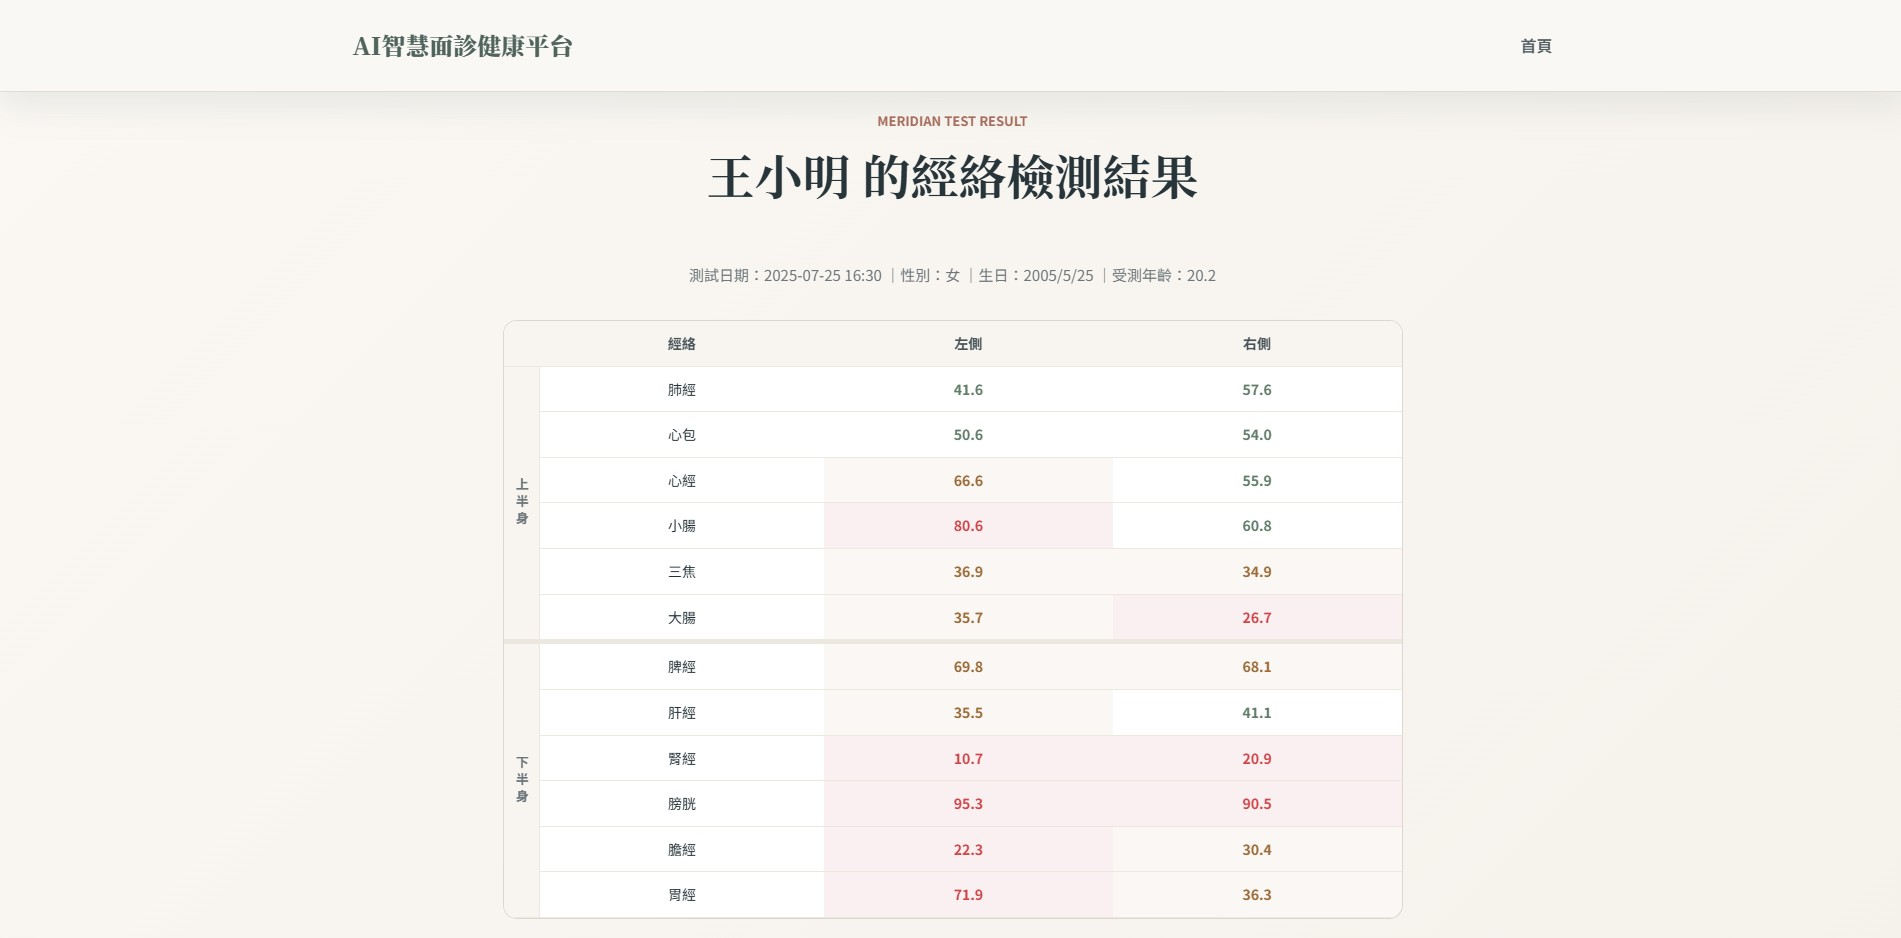
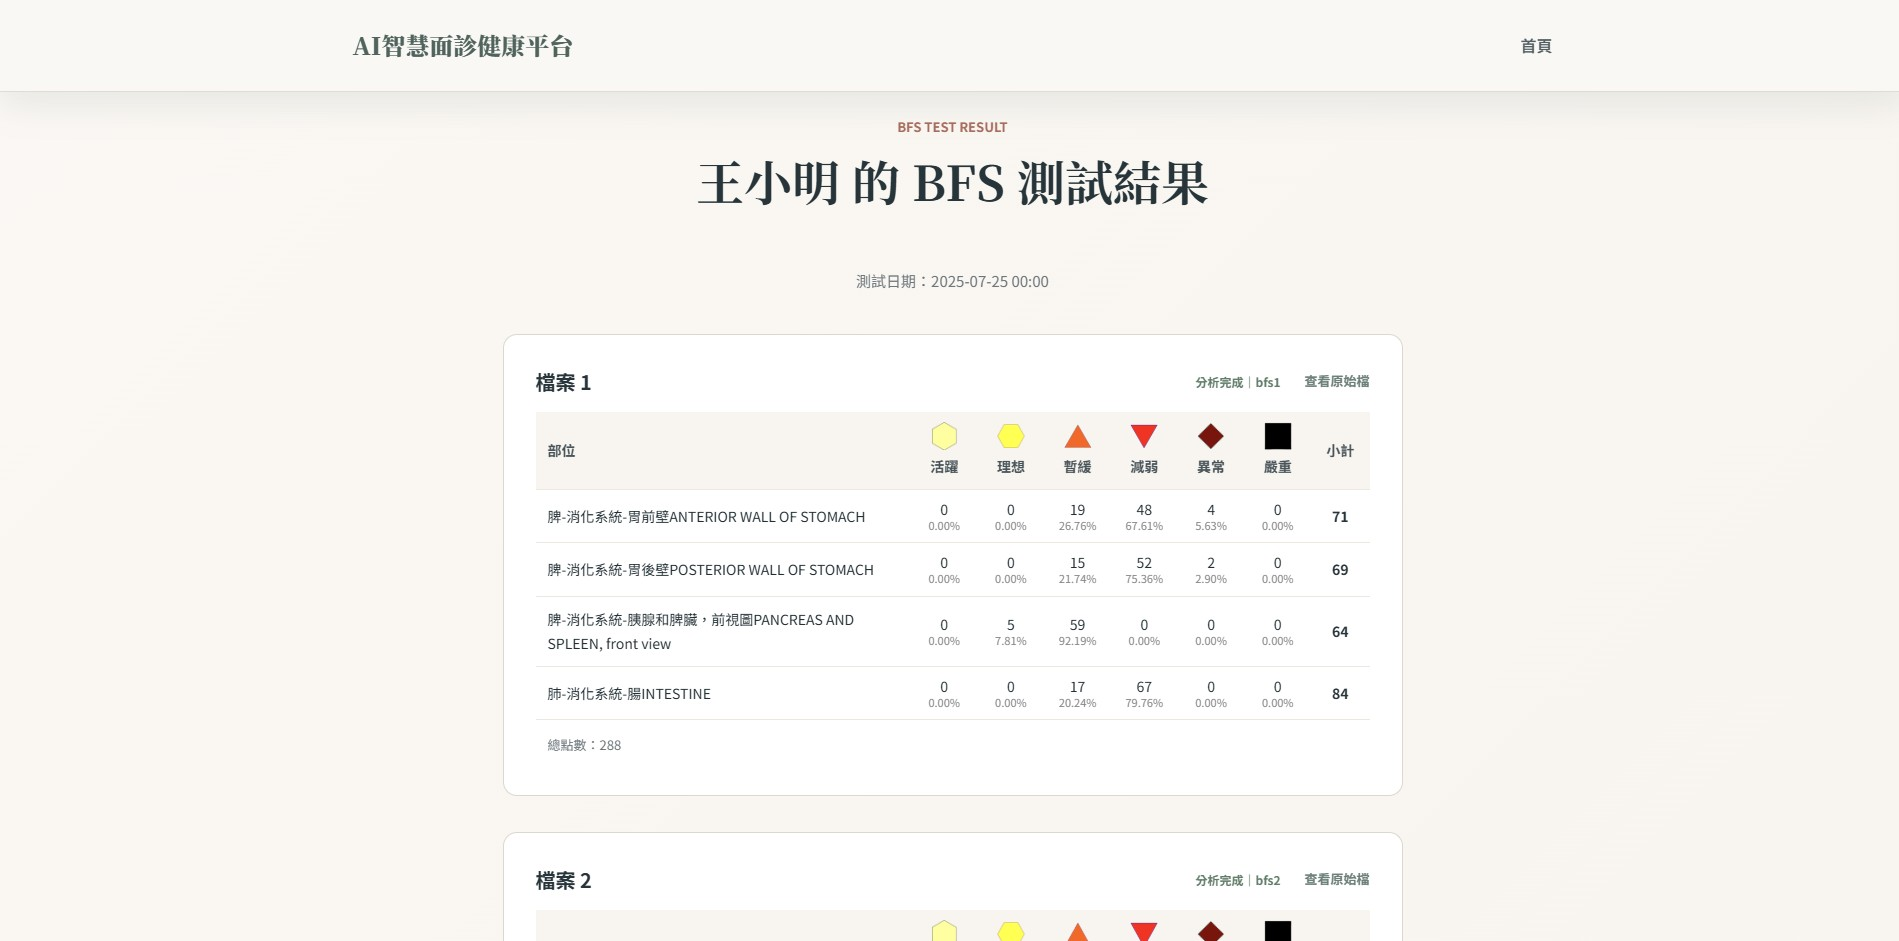
feat(projects):完成專案經歷內容與截圖

diff --git a/src/main/java/com/example/resume_site/service/ProjectService.java b/src/main/java/com/example/resume_site/service/ProjectService.java
@@ -21,24 +21,47 @@ public class ProjectService {
             """,
             "整合協調、前端開發、後端開發",
             List.of("YOLOv11", "Python", "Django", "SQLite", "HTML", "CSS", "JavaScript"),
-            "",   // 還沒有公開的 repo 就先留空字串
+            "https://github.com/Mingri31264445/health-analysis-system.git",
             List.of(
                 new ProjectImage("/images/projects/facial-diagnosis/1.jpg", "首頁畫面"),
-                new ProjectImage("/images/projects/facial-diagnosis/2.jpg", "BFS 分析結果頁"),
-                new ProjectImage("/images/projects/facial-diagnosis/3.jpg", "經絡儀分析結果頁")
+                new ProjectImage("/images/projects/facial-diagnosis/2.jpg", "BFS 原始報告"),
+                new ProjectImage("/images/projects/facial-diagnosis/3.jpg", "BFS 分析結果頁"),
+                new ProjectImage("/images/projects/facial-diagnosis/4.jpg", "經絡儀原始報告"),
+                new ProjectImage("/images/projects/facial-diagnosis/5.jpg", "經絡儀分析結果頁")
+            )
+        ),
+        new Project(
+            "app-shopping-cart",
+            "Android 購物車 App 介面開發",
+            "大二",
+            """
+            以 Android Studio 開發的購物車 App 介面，包含商品列表、商品篩選、購物車頁面等功能。
+            透過這個專案，我學習了 Android 開發的基本流程，UI 設計，以及如何使用 Java 進行程式邏輯的實作。這個專案讓我對移動應用程式開發有了更深入的了解，並且提升了我的程式設計能力。     
+            """,
+            "獨立開發",
+            List.of("Android", "Java"),
+            "https://github.com/Mingri31264445/AppFunalQuiz_12131361.git",
+            List.of(
+                new ProjectImage("/images/projects/app-shopping-cart/1.jpg", "商品列表"),
+                new ProjectImage("/images/projects/app-shopping-cart/2.jpg", "商品篩選"),
+                new ProjectImage("/images/projects/app-shopping-cart/3.jpg", "購物車頁面")
             )
         ),
         new Project(
             "shopping-cart",
-            "Angular 購物車前端專案",
-            "大三",
-            "以 Angular 開發的購物車前端，串接 REST API。",
+            "ASP.NET core MVC 購物商城前端專案",
+            "大二",
+            """
+            以 ASP.NET core MVC 開發的購物商城前端專案，包含商品列表、商品詳情、購物車頁面等功能。
+            透過這個專案，我學習了 ASP.NET core MVC 的基本架構，前端頁面設計，以及如何使用 C# 進行程式邏輯的實作。這個專案讓我對 Web 開發有了更深入的了解，並且提升了我的程式設計能力。
+            """,
             "獨立開發",
-            List.of("Angular", "TypeScript"),
-            "",
+            List.of("ASP.NET", "C#"),
+            "https://github.com/Mingri31264445/WebFinalExam.git",
             List.of(
-                new ProjectImage("/images/projects/shopping-cart/1.jpg", "商品列表"),
-                new ProjectImage("/images/projects/shopping-cart/2.jpg", "購物車頁面")
+                new ProjectImage("/images/projects/shopping-cart/1.jpg", "商城主頁面"),
+                new ProjectImage("/images/projects/shopping-cart/2.jpg", "商品詳情頁面"),
+                new ProjectImage("/images/projects/shopping-cart/3.jpg", "購物車頁面")
             )
         )
     );
